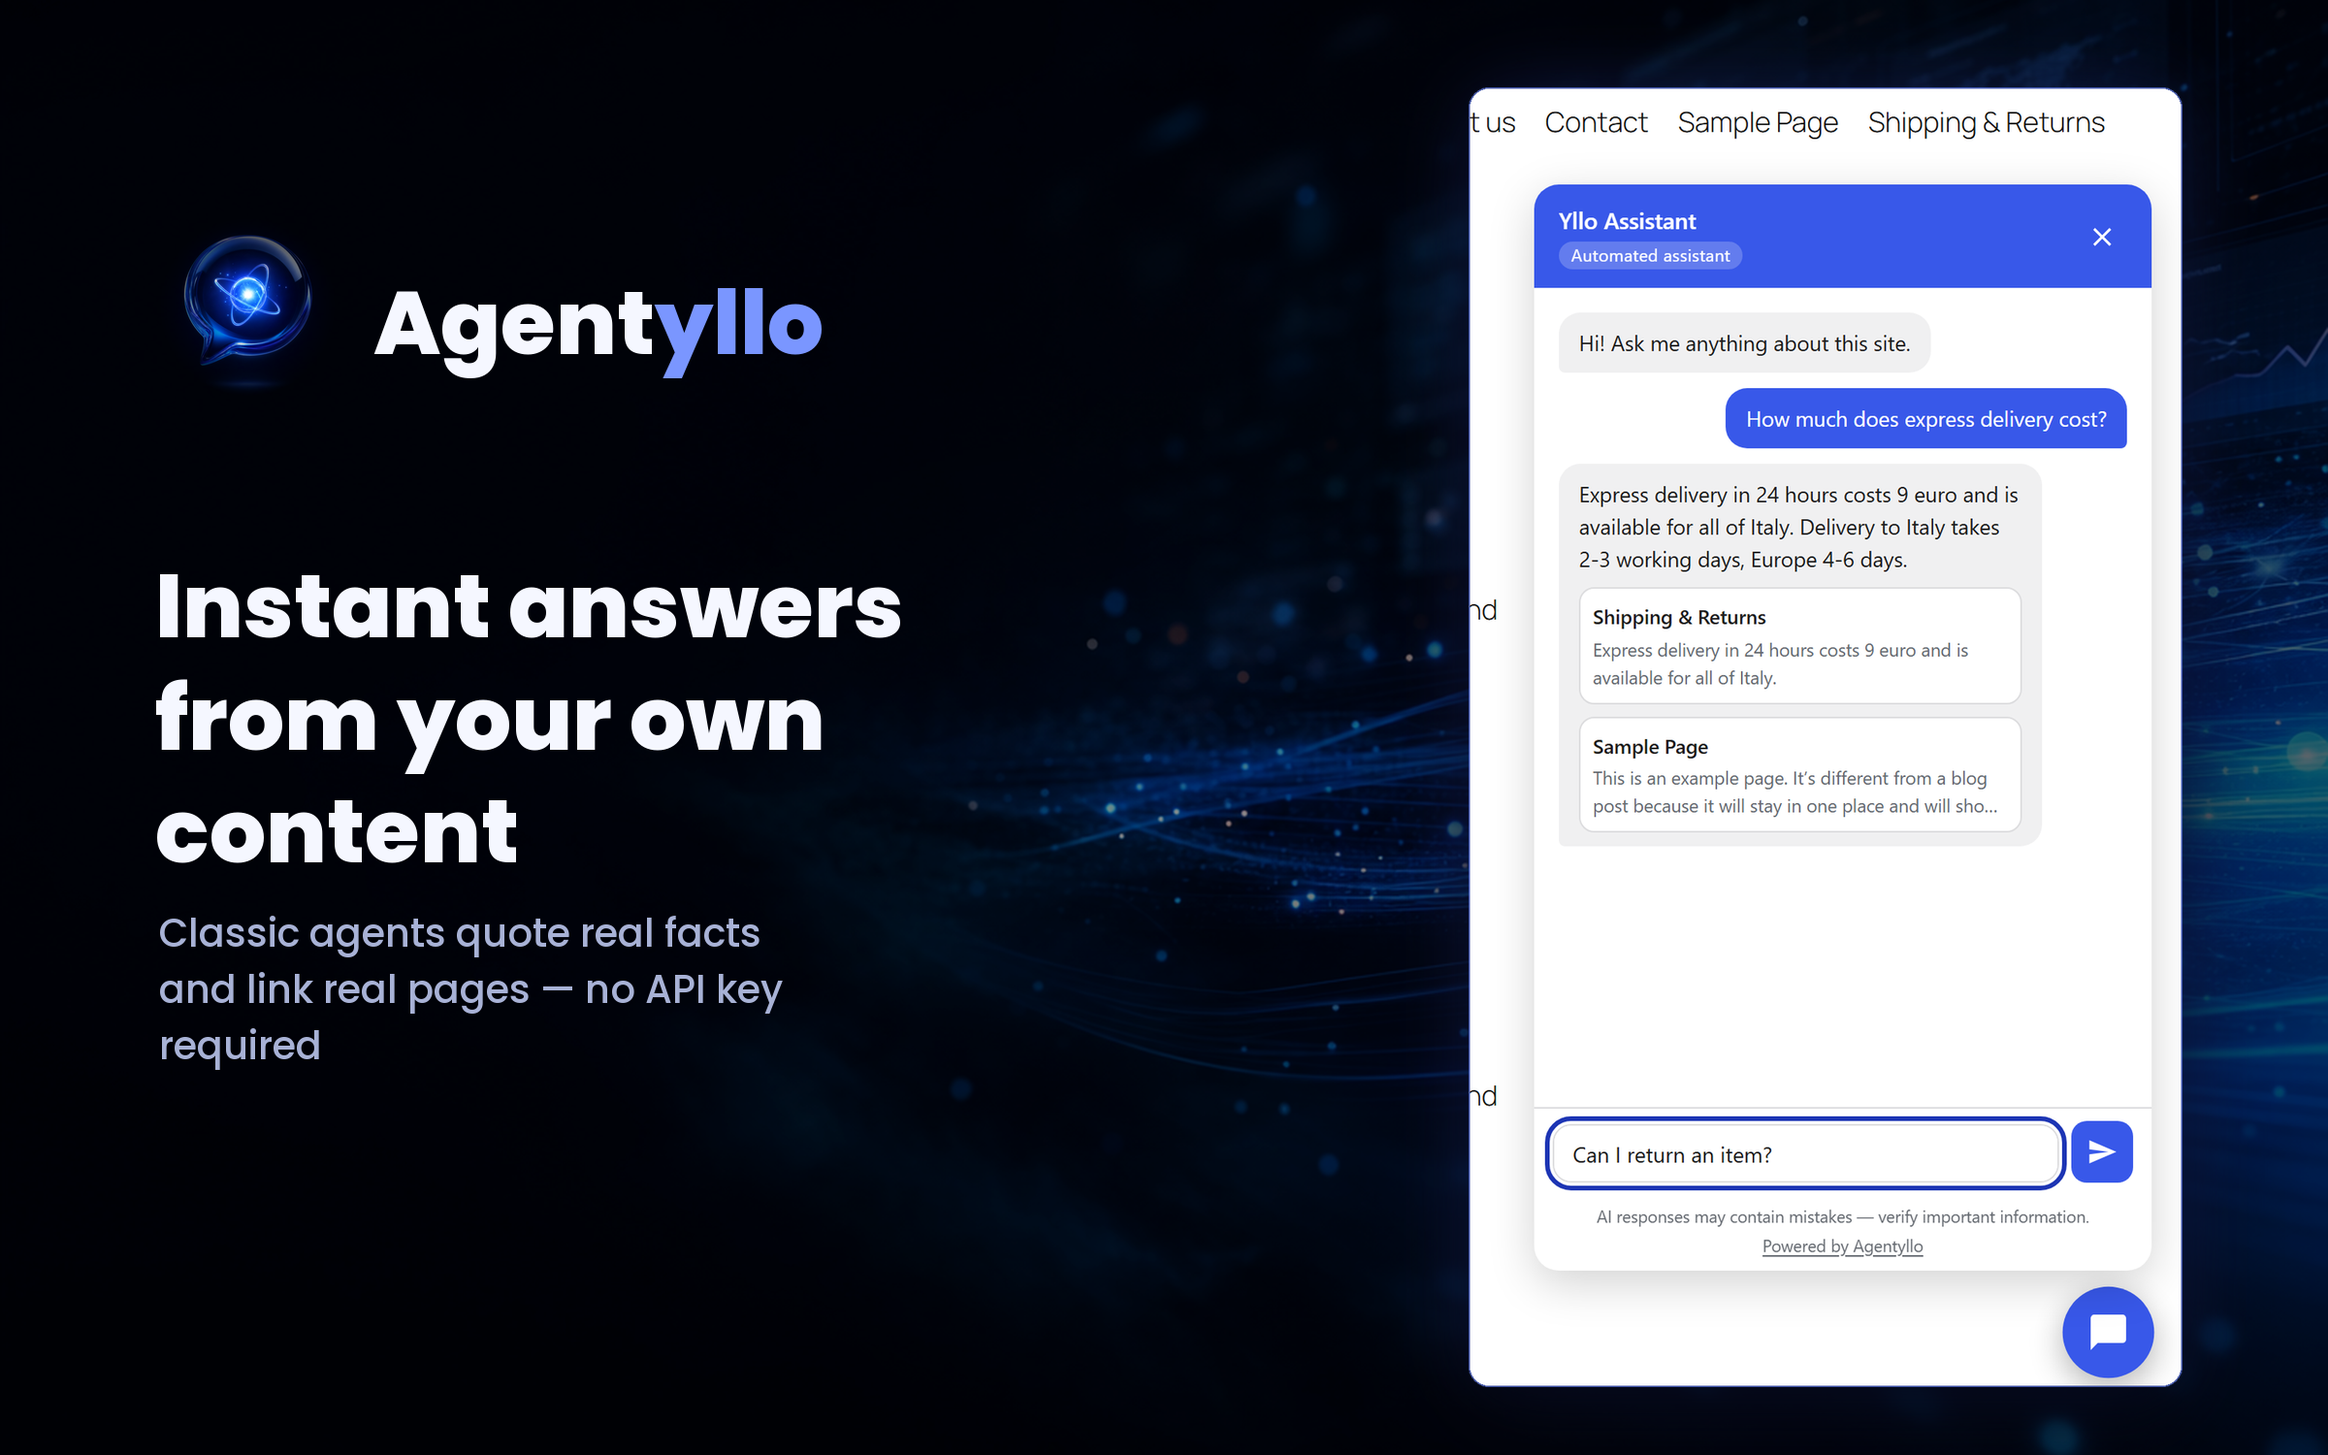
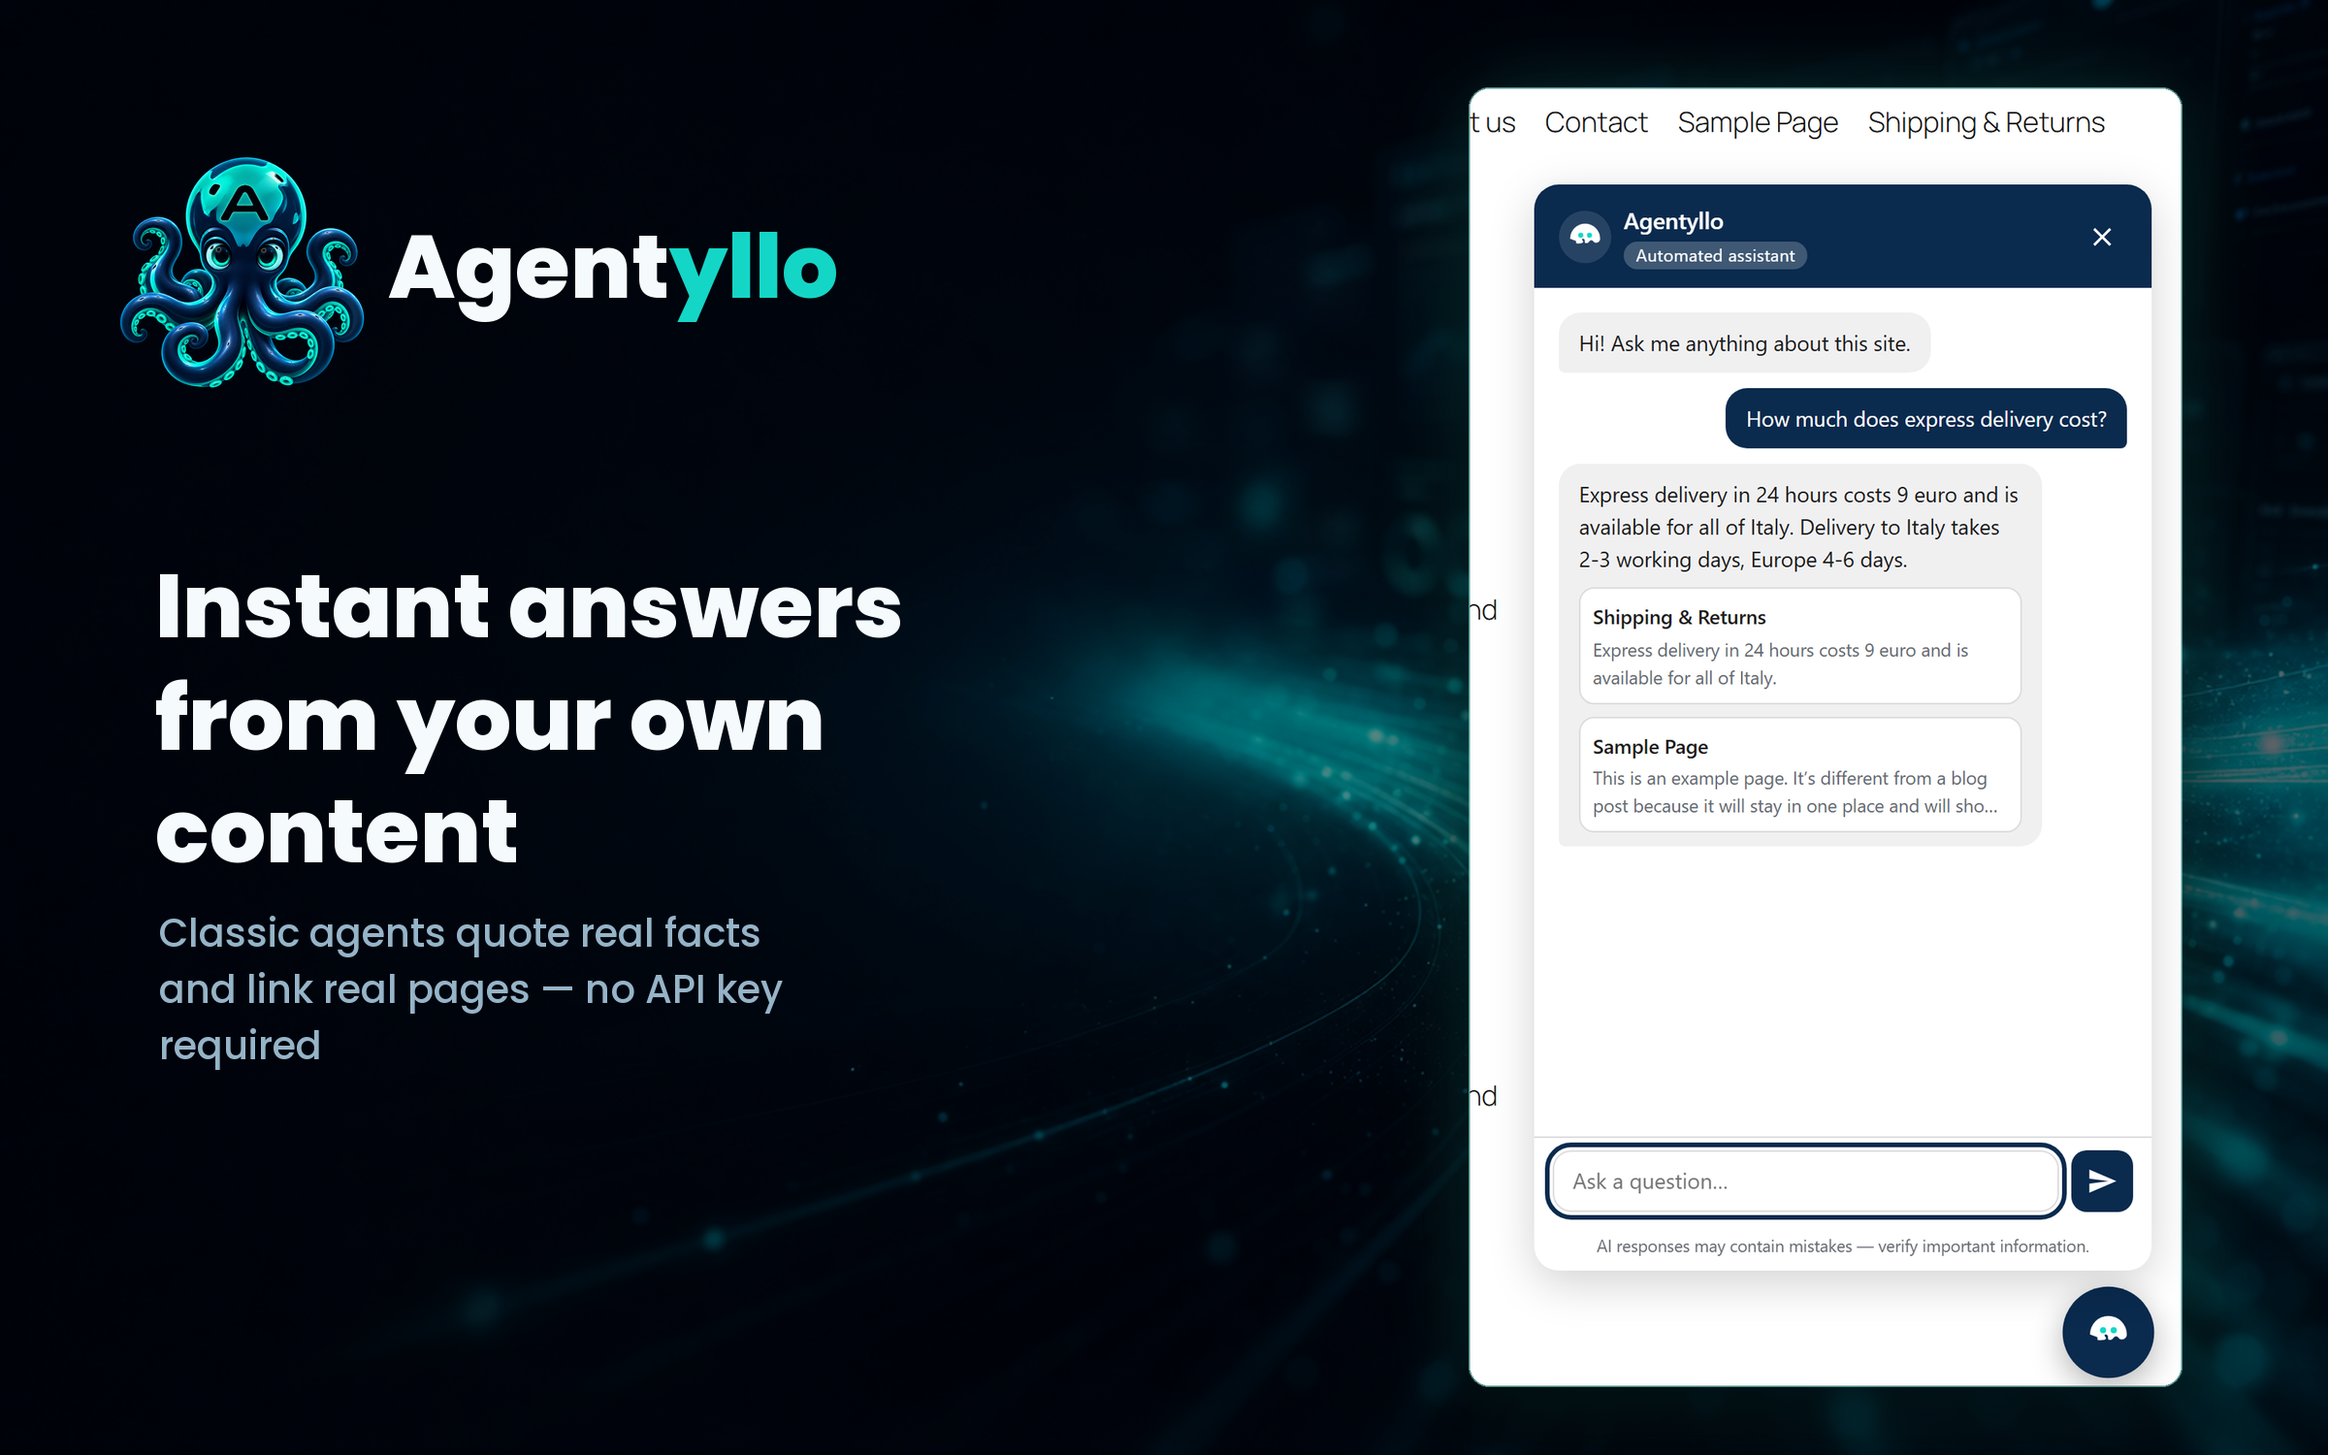
feat(brand): octopus mascot + navy/teal identity (v0.3.0)
Complete visual rebrand from electric blue (#3858e9) to the official
navy (#0A2540) + bright teal (#14D6C7) palette with a friendly octopus
mascot.

Product:
- Widget: navy launcher + header show the octopus mascot (inline duotone
  SVG, teal accent eyes); new --agy-accent teal token wired through
  ConfigController color_tokens() (auto-derived, WCAG-safe); focus rings
  navy on light / teal on dark; primary_color default -> navy.
- Admin: two-tone 'Agent'+'yllo' gradient wordmark, octopus menu icon,
  navy sparklines and accents.
- All colours WCAG-checked (white-on-navy ~15:1; teal only on dark).

Assets (regenerated via the brand pipeline):
- 12 wp.org files (icon 128/256, banner 772/1544, screenshots 1-8) and
  9 brand-kit files, recoloured navy/teal with the glossy 3D octopus and
  the tagline 'One intelligence. Many agents.'. Screenshots re-captured
  from the recoloured wp-env.
- Source art in brand-source/; compose.py rewritten (alpha cutout of the
  octopus, navy/teal palette, octopus icon tiles).

PHPStan level 6 clean, 91 tests, widget 12.5KB gzip. No functional
changes; user data and settings untouched.

diff --git a/agentyllo/src-js/widget/element.ts b/agentyllo/src-js/widget/element.ts
@@ -71,7 +71,6 @@ const DEFAULT_STRINGS: Record< string, string > = {
 
 const SVG_NS = 'http://www.w3.org/2000/svg';
 
-const ICON_CHAT = 'M20 2H4a2 2 0 0 0-2 2v18l4-4h14a2 2 0 0 0 2-2V4a2 2 0 0 0-2-2z';
 const ICON_CLOSE = 'M6.4 5 5 6.4 10.6 12 5 17.6 6.4 19 12 13.4 17.6 19 19 17.6 13.4 12 19 6.4 17.6 5 12 10.6 6.4 5z';
 const ICON_SEND = 'M2 21l21-9L2 3v7l15 2-15 2v7z';
 
@@ -86,6 +85,35 @@ function svgIcon( d: string, size = 24 ): SVGSVGElement {
 	path.setAttribute( 'd', d );
 	path.setAttribute( 'fill', 'currentColor' );
 	svg.appendChild( path );
+	return svg;
+}
+
+// Octopus mascot mark: domed head + four curling tentacles in currentColor
+// (white on the navy launcher/header, flips for a light custom primary), with
+// teal accent eyes. Decorative only — always aria-hidden.
+const ICON_OCTOPUS_BODY =
+	'M3 13a9 9 0 0 1 18 0c0 1.7-1.4 2.5-2.7 2.5-1.3 0-1.3-1.5-2.6-1.5s-1.3 1.7-2.6 1.7'
+	+ '-1.3 0-1.3-1.5-2.6-1.5-1.3 0-1.3 1.7-2.6 1.7-1.3 0-1.3-1.5-2.6-1.5C4.4 15.6 3 14.7 3 13z';
+
+function octopusMark( size = 28 ): SVGSVGElement {
+	const svg = document.createElementNS( SVG_NS, 'svg' );
+	svg.setAttribute( 'viewBox', '0 0 24 24' );
+	svg.setAttribute( 'width', String( size ) );
+	svg.setAttribute( 'height', String( size ) );
+	svg.setAttribute( 'aria-hidden', 'true' );
+	svg.setAttribute( 'focusable', 'false' );
+	const body = document.createElementNS( SVG_NS, 'path' );
+	body.setAttribute( 'd', ICON_OCTOPUS_BODY );
+	body.setAttribute( 'fill', 'currentColor' );
+	svg.appendChild( body );
+	for ( const cx of [ 9.4, 14.6 ] ) {
+		const eye = document.createElementNS( SVG_NS, 'circle' );
+		eye.setAttribute( 'cx', String( cx ) );
+		eye.setAttribute( 'cy', '11' );
+		eye.setAttribute( 'r', '1.5' );
+		eye.setAttribute( 'fill', 'var(--agy-accent, #14d6c7)' );
+		svg.appendChild( eye );
+	}
 	return svg;
 }
 
@@ -247,6 +275,11 @@ export class AgentylloChat extends HTMLElement {
 		if ( primaryFg ) {
 			this.style.setProperty( '--agy-primary-fg', primaryFg );
 		}
+		// Teal brand accent (focus rings on dark, links, mascot eyes).
+		const accent = c.tokens?.light?.accent || c.tokens?.dark?.accent;
+		if ( accent ) {
+			this.style.setProperty( '--agy-accent', accent );
+		}
 		if ( c.lang ) {
 			this.setAttribute( 'lang', c.lang );
 		}
@@ -279,7 +312,7 @@ export class AgentylloChat extends HTMLElement {
 		launcher.setAttribute( 'aria-expanded', 'false' );
 		launcher.setAttribute( 'aria-controls', 'agy-panel' );
 		launcher.setAttribute( 'aria-haspopup', 'dialog' );
-		launcher.appendChild( svgIcon( ICON_CHAT, 26 ) );
+		launcher.appendChild( octopusMark( 30 ) );
 		launcher.addEventListener( 'click', () => this.toggle() );
 		this.launcher = launcher;
 		this.root.appendChild( launcher );
@@ -347,6 +380,13 @@ export class AgentylloChat extends HTMLElement {
 	private buildHeader(): HTMLElement {
 		const header = document.createElement( 'header' );
 		header.className = 'agy-header';
+
+		// Mascot avatar (decorative; the title text already names the assistant).
+		const avatar = document.createElement( 'span' );
+		avatar.className = 'agy-avatar';
+		avatar.setAttribute( 'aria-hidden', 'true' );
+		avatar.appendChild( octopusMark( 26 ) );
+		header.appendChild( avatar );
 
 		const id = document.createElement( 'div' );
 		id.className = 'agy-header-id';

diff --git a/agentyllo/src-js/widget/ui/styles.ts b/agentyllo/src-js/widget/ui/styles.ts
@@ -10,8 +10,9 @@
  */
 export const WIDGET_CSS = `
 :host {
-	--agy-primary: #3858e9;
+	--agy-primary: #0a2a4e;
 	--agy-primary-fg: #ffffff;
+	--agy-accent: #14d6c7;
 	--agy-bg: #ffffff;
 	--agy-fg: #1e1e1e;
 	--agy-muted: #646970;
@@ -21,11 +22,11 @@ export const WIDGET_CSS = `
 	--agy-bubble-user-fg: var(--agy-primary-fg);
 	--agy-bubble-bot: var(--agy-surface);
 	--agy-bubble-bot-fg: var(--agy-fg);
-	--agy-info-bg: #e7f0fa;
+	--agy-info-bg: #e6faf8;
 	--agy-info-fg: #0a4b78;
 	--agy-warn-bg: #fcf0e4;
 	--agy-warn-fg: #8a4d00;
-	--agy-ring: #1d35b4;
+	--agy-ring: #0a2a4e;
 	--agy-radius: 16px;
 	--agy-shadow: 0 8px 30px rgba(0, 0, 0, 0.18);
 	--agy-z: 99990;
@@ -34,31 +35,33 @@ export const WIDGET_CSS = `
 }
 
 :host([data-theme='dark']) {
+	--agy-accent: #14d6c7;
 	--agy-bg: #1f2023;
 	--agy-fg: #e4e4e7;
 	--agy-muted: #a7aaad;
 	--agy-border: #3c434a;
 	--agy-surface: #2c2d33;
-	--agy-info-bg: #1d2d3f;
-	--agy-info-fg: #9ec2e6;
+	--agy-info-bg: #16333a;
+	--agy-info-fg: #8fe6dd;
 	--agy-warn-bg: #3d2e17;
 	--agy-warn-fg: #f0c37e;
-	--agy-ring: #9db2ff;
+	--agy-ring: var(--agy-accent);
 	--agy-shadow: 0 8px 30px rgba(0, 0, 0, 0.55);
 }
 
 @media (prefers-color-scheme: dark) {
 	:host([data-theme='auto']) {
+		--agy-accent: #14d6c7;
 		--agy-bg: #1f2023;
 		--agy-fg: #e4e4e7;
 		--agy-muted: #a7aaad;
 		--agy-border: #3c434a;
 		--agy-surface: #2c2d33;
-		--agy-info-bg: #1d2d3f;
-		--agy-info-fg: #9ec2e6;
+		--agy-info-bg: #16333a;
+		--agy-info-fg: #8fe6dd;
 		--agy-warn-bg: #3d2e17;
 		--agy-warn-fg: #f0c37e;
-		--agy-ring: #9db2ff;
+		--agy-ring: var(--agy-accent);
 		--agy-shadow: 0 8px 30px rgba(0, 0, 0, 0.55);
 	}
 }
@@ -210,11 +213,24 @@ export const WIDGET_CSS = `
 	color: var(--agy-primary-fg);
 }
 
+.agy-avatar {
+	flex: 0 0 auto;
+	display: inline-flex;
+	align-items: center;
+	justify-content: center;
+	width: 34px;
+	height: 34px;
+	border-radius: 50%;
+	background: rgba(255, 255, 255, 0.12);
+	color: var(--agy-primary-fg);
+}
+
 .agy-header-id {
 	display: flex;
 	flex-direction: column;
 	gap: 2px;
 	min-width: 0;
+	flex: 1 1 auto;
 }
 
 .agy-title {

diff --git a/agentyllo/src-js/admin/style.scss b/agentyllo/src-js/admin/style.scss
@@ -15,6 +15,25 @@
 		}
 	}
 
+	&__header .agy-wordmark {
+		font-weight: 700;
+		letter-spacing: -0.01em;
+	}
+
+	.agy-wm-a {
+		color: #0a2a4e;
+	}
+
+	// "yllo" navy→teal gradient with a solid-navy fallback for engines
+	// without background-clip:text (never renders invisible on white).
+	.agy-wm-b {
+		color: #0a2a4e;
+		background: linear-gradient(90deg, #0a2a4e 0%, #0e9e92 55%, #14d6c7 100%);
+		-webkit-background-clip: text;
+		background-clip: text;
+		-webkit-text-fill-color: transparent;
+	}
+
 	&__version {
 		font-size: 12px;
 		color: #757575;
@@ -49,8 +68,8 @@
 		color: #3c4650;
 	}
 	&[data-tier='t3'] {
-		background: #e6effb;
-		color: #1d4f91;
+		background: #e6eef7;
+		color: #0a2a4e;
 	}
 }
 
@@ -147,7 +166,7 @@
 
 .agy-sparkline {
 	display: block;
-	color: #3858e9;
+	color: #0a2a4e;
 }
 
 .agy-transcript {
@@ -162,7 +181,7 @@
 		background: #f6f7f7;
 
 		&--user {
-			background: #eef1fb;
+			background: #eef2f7;
 		}
 	}
 
@@ -221,7 +240,7 @@
 
 	&__fill {
 		height: 100%;
-		background: var(--wp-admin-theme-color, #3858e9);
+		background: var(--wp-admin-theme-color, #0a2a4e);
 		transition: width .3s ease;
 	}
 }
@@ -239,7 +258,7 @@
 	padding: 8px 14px;
 	border-radius: 999px;
 	border: 0;
-	background: var(--wp-admin-theme-color, #3858e9);
+	background: var(--wp-admin-theme-color, #0a2a4e);
 	color: #fff;
 	font-weight: 600;
 	cursor: pointer;
@@ -389,7 +408,7 @@ body.agy-cp-open .agy-admin {
 	margin-bottom: 12px;
 
 	&.is-user .agy-cp-text {
-		background: #f0f6fc;
+		background: #eef2f7;
 		border-radius: 8px;
 		padding: 8px 10px;
 	}
@@ -412,7 +431,7 @@ body.agy-cp-open .agy-admin {
 
 .agy-cp-card {
 	border: 1px solid #c3c4c7;
-	border-left: 4px solid var(--wp-admin-theme-color, #3858e9);
+	border-left: 4px solid var(--wp-admin-theme-color, #0a2a4e);
 	border-radius: 4px;
 	padding: 10px 12px;
 	margin: 8px 0;

diff --git a/agentyllo/src-js/admin/App.tsx b/agentyllo/src-js/admin/App.tsx
@@ -32,8 +32,8 @@ export default function App( { page }: { page: string } ) {
 	return (
 		<div className="agy-admin">
 			<header className="agy-admin__header">
-				<h1>
-					{ __( 'Agentyllo', 'agentyllo' ) }
+				<h1 className="agy-wordmark">
+					<span className="agy-wm-a">Agent</span><span className="agy-wm-b">yllo</span>
 					<span className="agy-admin__version">v{ window.agylAdmin.version }</span>
 				</h1>
 			</header>

diff --git a/agentyllo/src-js/admin/pages/Statistics.tsx b/agentyllo/src-js/admin/pages/Statistics.tsx
@@ -117,7 +117,7 @@ export default function Statistics() {
 						<CardBody>
 							<div className="agy-muted">{ label }</div>
 							<div className="agy-kpi">{ value }</div>
-							{ spark && spark.length > 1 && <Sparkline values={ spark } label={ label } color="#3858e9" /> }
+							{ spark && spark.length > 1 && <Sparkline values={ spark } label={ label } color="#0a2a4e" /> }
 						</CardBody>
 					</Card>
 				) ) }

diff --git a/agentyllo/src-js/admin/pages/Dashboard.tsx b/agentyllo/src-js/admin/pages/Dashboard.tsx
@@ -268,7 +268,7 @@ export default function Dashboard() {
 					</p>
 					<Sparkline
 						label={ __( 'Conversations per day', 'agentyllo' ) }
-						color="#3858e9"
+						color="#0a2a4e"
 						values={ ( () => {
 							const byDay: Record< string, number > = {};
 							for ( const row of dashboard.stats?.daily || [] ) {

diff --git a/agentyllo/src/Rest/ConfigController.php b/agentyllo/src/Rest/ConfigController.php
@@ -289,14 +289,21 @@ final class ConfigController extends Controller {
 	 * @return array{light: array<string, string>, dark: array<string, string>}
 	 */
 	private function color_tokens( string $primary ): array {
-		$primary = sanitize_hex_color( $primary ) ?: '#3858e9';
+		$primary = sanitize_hex_color( $primary ) ?: '#0a2a4e';
 
 		$primary_fg = self::relative_luminance( $primary ) > 0.5 ? '#111' : '#fff';
+
+		// Teal brand accent — used by the widget for focus rings on dark
+		// surfaces, dark-theme links and the mascot eyes. It is deliberately a
+		// constant (not a second user setting) to keep the options surface
+		// small; the widget only ever paints it where contrast is safe.
+		$accent = '#14d6c7';
 
 		return array(
 			'light' => array(
 				'primary'    => $primary,
 				'primary_fg' => $primary_fg,
+				'accent'     => $accent,
 				'surface'    => '#ffffff',
 				'surface_2'  => '#f6f7f9',
 				'text'       => '#1d2327',
@@ -306,6 +313,7 @@ final class ConfigController extends Controller {
 			'dark'  => array(
 				'primary'    => $primary,
 				'primary_fg' => $primary_fg,
+				'accent'     => $accent,
 				'surface'    => '#1d2327',
 				'surface_2'  => '#2c3338',
 				'text'       => '#f0f0f1',

diff --git a/agentyllo/src/Admin/Menu.php b/agentyllo/src/Admin/Menu.php
@@ -23,9 +23,10 @@ final class Menu {
 	public const SLUG = 'agentyllo';
 
 	/**
-	 * Chat-bubble menu icon (currentColor so admin color schemes apply).
+	 * Octopus mascot menu icon (currentColor so admin color schemes apply):
+	 * a domed head with two eyes and four curling tentacles.
 	 */
-	private const ICON_SVG = '<svg xmlns="http://www.w3.org/2000/svg" viewBox="0 0 24 24" fill="currentColor"><path d="M12 3C6.9 3 3 6.5 3 10.8c0 2.3 1.1 4.4 3 5.8-.1.9-.5 2.2-1.7 3.4-.2.2 0 .6.3.6 2.2-.2 3.8-1 4.8-1.7.8.2 1.7.3 2.6.3 5.1 0 9-3.5 9-7.8S17.1 3 12 3zm-4 9.3c-.8 0-1.5-.7-1.5-1.5S7.2 9.3 8 9.3s1.5.7 1.5 1.5-.7 1.5-1.5 1.5zm4 0c-.8 0-1.5-.7-1.5-1.5s.7-1.5 1.5-1.5 1.5.7 1.5 1.5-.7 1.5-1.5 1.5zm4 0c-.8 0-1.5-.7-1.5-1.5s.7-1.5 1.5-1.5 1.5.7 1.5 1.5-.7 1.5-1.5 1.5z"/></svg>';
+	private const ICON_SVG = '<svg xmlns="http://www.w3.org/2000/svg" viewBox="0 0 24 24" fill="currentColor"><path d="M3 13a9 9 0 0 1 18 0c0 1.7-1.4 2.5-2.7 2.5-1.3 0-1.3-1.5-2.6-1.5s-1.3 1.7-2.6 1.7-1.3 0-1.3-1.5-2.6-1.5-1.3 0-1.3 1.7-2.6 1.7-1.3 0-1.3-1.5-2.6-1.5C4.4 15.6 3 14.7 3 13z"/><circle cx="9.4" cy="11" r="1.4"/><circle cx="14.6" cy="11" r="1.4"/></svg>';
 
 	/**
 	 * Admin pages: slug suffix => [menu label, page id passed to the SPA].

diff --git a/agentyllo/agentyllo.php b/agentyllo/agentyllo.php
@@ -3,7 +3,7 @@
  * Plugin Name:       Agentyllo
  * Plugin URI:        https://www.agentyllo.com
  * Description:       Intelligent AI assistant for your site: classic agents, an automatic knowledge base, free local AI, and optional OpenAI/Anthropic models.
- * Version:           0.2.1
+ * Version:           0.3.0
  * Requires at least: 6.8
  * Requires PHP:      8.2
  * Author:            Agentyllo
@@ -23,7 +23,7 @@ defined( 'ABSPATH' ) || exit;
  * can render an admin notice instead of a fatal error. No PHP 8 syntax here.
  */
 
-define( 'AGYL_VERSION', '0.2.1' );
+define( 'AGYL_VERSION', '0.3.0' );
 define( 'AGYL_DB_VERSION', 8 );
 define( 'AGYL_API_VERSION', 1 );
 define( 'AGYL_FILE', __FILE__ );

diff --git a/agentyllo/src/Admin/Settings/SettingsSchema.php b/agentyllo/src/Admin/Settings/SettingsSchema.php
@@ -83,7 +83,7 @@ final class SettingsSchema {
 					'values'  => array( 'auto', 'light', 'dark' ),
 					'default' => 'auto',
 				),
-				'primary_color'       => array( 'type' => 'string', 'default' => '#3858e9', 'maxlen' => 7 ),
+				'primary_color'       => array( 'type' => 'string', 'default' => '#0a2a4e', 'maxlen' => 7 ),
 				'welcome_message'     => array( 'type' => 'text', 'default' => '', 'maxlen' => 300 ),
 				'launcher_teaser'     => array( 'type' => 'string', 'default' => '', 'maxlen' => 100 ),
 				'show_thumbnails'     => array( 'type' => 'bool', 'default' => true ),
